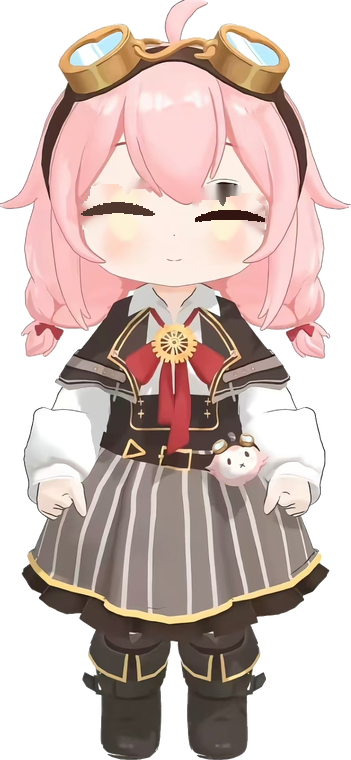
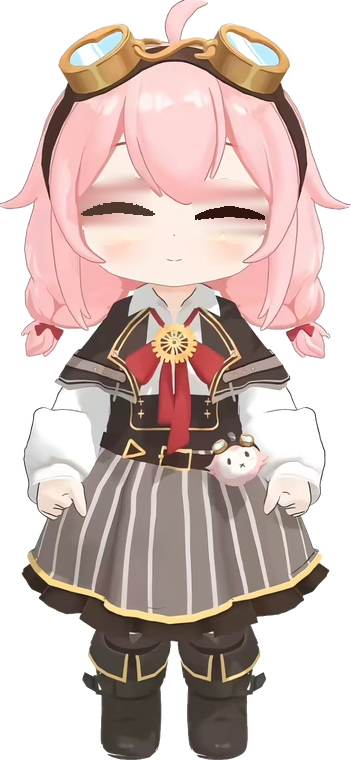
闭眼帧改用逐行横向插值，消掉眼睛上方的灰渍
inpaint 从上下左右各方向取色，上方就是深色刘海，发色被带下来在眼睛上方
抹出一块灰。换过三种办法都在同一个思路里打转，全没解决。改成只在同一行内
从左右两侧干净皮肤插值，从根上避开发色；副作用（横向条带）用掩膜内归一化
卷积的纵向高斯压掉。

护栏纵向 1.55 -> 1.75：1.55 时右眼上方留着原图上睫毛的残影。

眨眼改为默认开启；首次运行弹一次操作提示（透明窗口看不出能右键）。

Changed region(s): [[0.5698, 0.2118, 0.7692, 0.3329], [0.2279, 0.2118, 0.4274, 0.3026]]

diff --git a/tools/build_assets.py b/tools/build_assets.py
@@ -122,7 +122,7 @@ def _skin_hair(arr):
     return skin, skin | hair
 
 
-def build_blink(img: Image.Image, irises, guard=(1.65, 1.55)) -> Image.Image:
+def build_blink(img: Image.Image, irises, guard=(1.65, 1.75)) -> Image.Image:
     arr0 = np.asarray(img).astype(np.int32)
     H, W = arr0.shape[:2]
     skin, excluded = _skin_hair(arr0)
@@ -132,7 +132,11 @@ def build_blink(img: Image.Image, irises, guard=(1.65, 1.55)) -> Image.Image:
         x0, y0, x1, y1 = ir
         icx, icy = (x0 + x1) / 2.0, (y0 + y1) / 2.0
         iw, ih = x1 - x0 + 1, y1 - y0 + 1
-        ex, ey = iw * guard[0], ih * guard[1]   # 椭圆护栏，防止掩膜吃到头发
+        # 椭圆护栏，防止掩膜吃到头发。
+        # 纵向 1.75 是量出来的：1.55 时右眼上方留着原图上睫毛的残影（显示尺寸下
+        # 看得见一道深色痕），再往上扩到 1.95+ 就会啃掉刘海 —— 发丝轮廓是高对比的，
+        # 缺一块比多一道睫毛线更扎眼。1.75 刚好盖掉残影又不碰刘海。
+        ex, ey = iw * guard[0], ih * guard[1]
 
         bx0, by0 = max(0, int(icx - ex) - 6), max(0, int(icy - ey) - 6)
         bx1, by1 = min(W, int(icx + ex) + 6), min(H, int(icy + ey) + 6)
@@ -155,31 +159,50 @@ def build_blink(img: Image.Image, irises, guard=(1.65, 1.55)) -> Image.Image:
         ex0, ey0, ex1, ey1 = bbox
         ew, eh = ex1 - ex0, ey1 - ey0
 
-        # 1) inpaint 填平眼睛区域
+        # 1) 填平眼睛区域
         sub = out[by0:by0 + m.shape[0], bx0:bx0 + m.shape[1]]
-        bgr = sub[..., :3][..., ::-1].astype(np.uint8)
-        filled = cv2.inpaint(bgr, (m * 255).astype(np.uint8), 5, cv2.INPAINT_TELEA)
-        rgb = filled[..., ::-1].astype(np.float64)
-
-        # 先算闭眼线位置 —— 下面按它做镜像，所以要在填充前算出来。
-        y_base = ey0 + eh * LASH_Y_AT
-
-        # 掩膜上边界紧贴深色刘海，inpaint 会从刘海取色，在眼睛上方抹出一块灰。
-        # 试过「收紧护栏」（更糟：护栏把掩膜上缘切出硬边，灰块反而变大）和
-        # 「朝肤色基准拉回」（能淡掉，但要压平区域，等于退回平涂补丁的老错误）。
-        # 正解：闭眼线以上本来就该是干净的皮肤，而线以下 inpaint 出来正是干净皮肤
-        # —— 直接按闭眼线上下镜像过去，得到真实肤质，不必让 inpaint 去猜。
         hh, ww = m.shape
-        yy = np.arange(by0, by0 + hh)[:, None]
-        rows = np.broadcast_to(yy < y_base, m.shape)          # 闭眼线以上的像素
-        take = np.broadcast_to(np.clip((2 * y_base - yy).astype(int) - by0, 0, hh - 1),
-                               m.shape)
-        cols = np.broadcast_to(np.arange(ww), m.shape)
-        sel = rows & m[take, cols] & m                     # 镜像源也得是填充区
-        rgb = np.where(sel[..., None], rgb[take, cols], rgb)
+
+        # 逐行横向插值：只在同一行内、用被遮段左右两侧的像素做线性插值。
+        #
+        # 不用 cv2.inpaint 是因为它从上下左右各个方向取色，而眼睛上方紧贴着深色
+        # 刘海 —— 发色被带下来，在眼睛上方抹出一块灰。试过的其它三条路：
+        #   · 朝肤色基准拉回：能淡掉，但要压平区域，等于退回平涂补丁的老错误
+        #   · 收紧掩膜护栏：更糟，护栏把掩膜上缘切出硬边，灰块反而变大
+        #   · 按闭眼线上下镜像：左眼干净了，右眼那块灰仍在
+        # 横向插值从根上避开发色：同一行左右两侧是刚出掩膜的干净皮肤，永远不往上取。
+        rgb = sub[..., :3].astype(np.float64).copy()
+        for y in range(hh):
+            xs = np.nonzero(m[y])[0]
+            if xs.size == 0:
+                continue
+            # 掩膜在一行里可能是几段，逐段填
+            breaks = np.nonzero(np.diff(xs) > 1)[0]
+            for a, b in zip(np.r_[xs[0], xs[breaks + 1]], np.r_[xs[breaks], xs[-1]]):
+                left = rgb[y, a - 1] if a > 0 else None
+                right = rgb[y, b + 1] if b + 1 < ww else None
+                if left is None and right is None:
+                    continue
+                if left is None:
+                    left = right
+                if right is None:
+                    right = left
+                # 段内有 n = b-a+1 个像素，两端各留一格给左右取样点 -> 取 n 个内点
+                t = np.linspace(0.0, 1.0, b - a + 3)[1:-1, None]
+                rgb[y, a:b + 1] = left * (1 - t) + right * t
+
+        # 逐行独立插值会让相邻行接不上，留下横向条带。沿纵向补一道高斯。
+        # 必须用归一化卷积（只在掩膜内加权平均）——直接模糊的话，掩膜上缘会把
+        # 上面的刘海又吸进来，等于绕一圈回到原来的灰渍问题。
+        wm = m[..., None].astype(np.float64)
+        den = ndimage.gaussian_filter1d(wm, 3.0, axis=0)
+        num = ndimage.gaussian_filter1d(rgb * wm, 3.0, axis=0)
+        rgb = np.where(m[..., None], num / np.maximum(den, 1e-6), rgb)
 
         sub[..., :3] = np.clip(rgb, 0, 255)
         sub[m, 3] = 255.0
+
+        y_base = ey0 + eh * LASH_Y_AT
 
         # 2) 画睫毛弧。闭眼时上眼睑完全盖住虹膜，所以不能压扁原作眼睛
         #    （那样会把琥珀虹膜压成一条橙条），必须重画一道线。

diff --git a/taffy_pet/pet.py b/taffy_pet/pet.py
@@ -137,6 +137,15 @@ class PetWindow(QWidget):
         if was_click:
             self.on_click()
 
+    def show_hint_if_first_run(self) -> None:
+        """透明窗口没有任何可见的边框，不提示的话没人知道能右键、能拖。"""
+        if self.cfg.get("hint_shown"):
+            return
+        self.toast.show_message("拖我可以换位置 · 右键点我打开菜单")
+        self.toast.anchor_above(self.frameGeometry())
+        self.cfg["hint_shown"] = True
+        cfgmod.save(self.cfg)
+
     def on_click(self) -> None:
         self.play_sound()
         self.animator.pounce()

diff --git a/main.py b/main.py
@@ -4,7 +4,7 @@
 """
 import sys
 
-from PyQt5.QtCore import Qt
+from PyQt5.QtCore import Qt, QTimer
 from PyQt5.QtWidgets import QApplication
 
 from taffy_pet import config as cfgmod
@@ -20,6 +20,8 @@ def main() -> int:
     cfg = cfgmod.load()
     pet = PetWindow(cfg)
     pet.show()
+    # 等窗口真正摆好位置再弹提示，否则气泡会按还没定位的坐标算
+    QTimer.singleShot(600, pet.show_hint_if_first_run)
     return app.exec_()
 
 

diff --git a/taffy_pet/config.py b/taffy_pet/config.py
@@ -19,8 +19,9 @@ DEFAULTS = {
     "height": 380,          # 角色在屏幕上的高度（像素）
     "opacity": 1.0,
     "always_on_top": True,
-    "blink": False,         # 眨眼默认关，见 README「关于眨眼」
+    "blink": True,
     "speech": "关注塔菲喵关注塔菲谢谢喵",
+    "hint_shown": False,    # 首次运行提示过操作方式了吗
     "volume": 1.0,
     "pos": None,            # [x, y]，上次退出时的位置
 }

diff --git a/README.md b/README.md
@@ -18,7 +18,11 @@ python main.py
 | --- | --- |
 | 左键点击 | 说话 + 弹余额 + 播音效 + 蹦一下 |
 | 左键拖动 | 挪位置（松手后记住，下次启动还在那） |
-| 右键 | 菜单：设置 API Key / 刷新余额 / 眨眼 / 窗口置顶 / 退出 |
+| 右键点她 | 菜单：设置 API Key / 刷新余额 / 眨眼 / 窗口置顶 / 退出 |
+
+右键要**点在她身上**。窗口是无边框透明的，周围有一圈看不见的透明边距（见下面
+「窗口边距是个权衡」），那圈里右键也能出菜单，但从外面看不出来，所以首次运行会
+自动弹一次操作提示。
 
 拖拽和点击按位移量区分（超过 6px 算拖拽），所以想挪位置不会误触发说话。
 
@@ -66,17 +70,30 @@ python tools/extract_audio.py <视频路径> click
 
 判据见 `tools/build_assets.py`，探针脚本的历史结论在 `tools/_blink_explore.py` 顶部。
 
-### 关于眨眼
+### 闭眼帧的填充方式（踩了四个坑才找对）
 
-眨眼**默认关闭**，右键菜单可以打开。
+闭眼帧是离线生成的：把原眼睛涂掉，再画一道睫毛弧。
 
-闭眼帧是离线生成的：把原眼睛涂掉，再画一道睫毛弧。问题出在眼睛上方那条窄缝 ——
-它夹在深色刘海和眼线之间，任何填充方式都会从刘海取到色，在右眼上方留下一小道灰。
-四种办法都试过（inpaint 直接填、朝肤色拉回、收紧掩膜护栏、按闭眼线镜像），
-灰能淡掉但消不干净，再压就要把区域压平成矩形补丁，反而更明显。
+难点在眼睛上方那条窄缝，夹在深色刘海和眼线之间。**一开始用 `cv2.inpaint`，
+它从上下左右各方向取色，上方就是深色刘海，发色被带下来，在右眼上方抹出一块灰。**
+后面换的三种办法都是在这个思路里打转，所以都没解决：
 
-左眼是干净的，右眼那道灰在 380px 显示高度下约 5px。判定为可接受就留着，
-觉得碍眼就在右键菜单里关掉 —— 呼吸和点击弹跳本身已经够「动态」了。
+| 试过的办法 | 结果 |
+| --- | --- |
+| 朝肤色基准拉回 | 能淡掉，但要压平区域，退回「平涂补丁」的老错误 |
+| 收紧掩膜护栏 | 更糟 —— 护栏把掩膜上缘切出硬边，灰块反而变大 |
+| 按闭眼线上下镜像 | 左眼干净了，右眼那块灰仍在 |
+| **逐行横向插值** | **解决了** |
+
+正解是换掉取色方向：**只在同一行内，用被遮段左右两侧的像素做线性插值，永远不往上取。**
+同一行左右两侧是刚出掩膜的干净皮肤，从根上避开发色。
+
+副作用是相邻行接不上、出现横向条带，所以后面补一道纵向高斯 —— 但必须用
+**归一化卷积**（只在掩膜内加权平均）。直接模糊的话，掩膜上缘会把上面的刘海又吸进来，
+等于绕一圈回到原来的问题。
+
+护栏纵向取 1.75 也是量出来的：1.55 时右眼上方留着原图上睫毛的残影，
+扩到 1.95 以上就会啃掉刘海 —— 发丝轮廓是高对比的，缺一块比多一道睫毛线更扎眼。
 
 ### 弹跳用关键帧，不用弹簧
 
